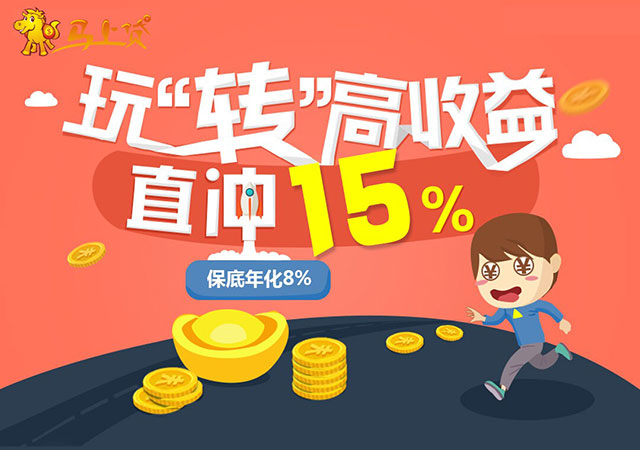
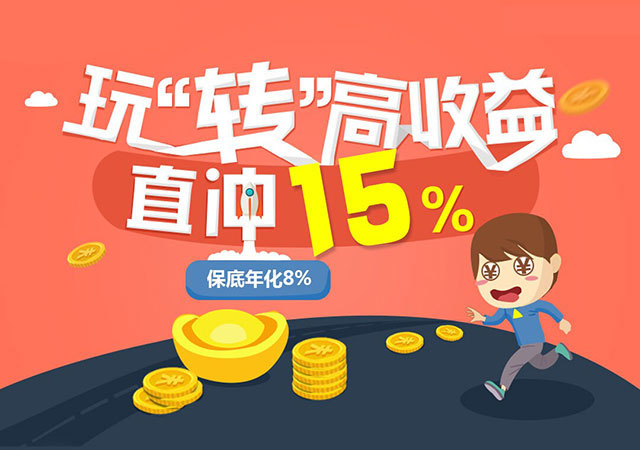
qr1 & qr2 page rebuilt.

Changed region(s): [[0.0, 0.0, 0.25, 0.1244]]

diff --git a/qr1.html b/qr1.html
@@ -6,36 +6,38 @@
     <meta content="yes" name="apple-touch-fullscreen" />
     <meta name="viewport" content="width=device-width, initial-scale=1, maximum-scale=1, user-scalable=no">
     <meta charset="UTF-8">
-    <title>理财信息确认</title>
-    <!-- <link rel="stylesheet" href="css/pure-min.css"> -->
+    <title>邀请理财</title>
     <link rel="stylesheet" href="css/qr.css">
 </head>
 
 <body>
-    <header class="qr_banner">
+    <header class="qr_banner1" id="qr_banner1">
         <img src="img/qr1_banner.jpg">
+        <img src="img/msd_logo.png" class="qr_logo" alt="">
     </header>
-    <div class="qr1_main">
-        <div class="qr_section fl">
-            <img src="img/qr_mockup.jpg">
+    <div class="qr1_main" id="qr1_main">
+        <div class="qr_section fl" id="qr_section1">
+            <img src="img/qr_mockup.jpg" id="qr_img1"><!-- 二维码 -->
             <p>邀请码: <span>7713</span></p>
         </div>
-        <div class="qr_section fl">
-            <img src="img/qr1_finger.jpg" class="fr">
+        <div class="qr_section fl" id="qr_section2">
+            <img src="img/qr_finger.png" id="qr_img2">
             <p>长按指纹扫描二维码</p>
         </div>
     </div>
-    <footer class="qr1_footer">
+    <footer class="qr1_footer" id="qr1_footer">
         <img src="img/qr1_footer.jpg">
     </footer>
-    <script src="js/zepto.min.js"></script>
     <script>
-        var banner_height = $(".qr_banner").height(),
-            footer_height = $(".qr1_footer").height(),
-            body_height = window.document.body.offsetHeight;
-        $(".qr1_main").css("height", body_height - banner_height - footer_height);
-        $(".qr_section").css("height","100%");
-        $(".qr_section img").css("height","80%");
+    window.onload=function(){
+    var banner_height = document.getElementById("qr_banner1").offsetHeight,
+        footer_height = document.getElementById("qr1_footer").offsetHeight,
+        body_height = window.document.body.offsetHeight;
+    document.getElementById("qr1_main").style.height = (body_height - banner_height - footer_height) + "px";
+    document.getElementById("qr_section1").style.height = "100%";
+    document.getElementById("qr_section2").style.height = "100%";
+    document.getElementById("qr_img1").style.height = "80%";
+    document.getElementById("qr_img2").style.height = "80%";}
     </script>
 </body>
 

diff --git a/qr2.html b/qr2.html
@@ -6,31 +6,34 @@
     <meta content="yes" name="apple-touch-fullscreen" />
     <meta name="viewport" content="width=device-width, initial-scale=1, maximum-scale=1, user-scalable=no">
     <meta charset="UTF-8">
-    <title>理财信息确认</title>
+    <title>邀请借款</title>
     <!-- <link rel="stylesheet" href="css/pure-min.css"> -->
     <link rel="stylesheet" href="css/qr.css">
 </head>
 
 <body class="qr2">
-    <header class="qr_banner">
-        <img src="img/qr2_banner.jpg">
+    <header class="qr_banner2" id="qr_banner2">
+        <img src="img/qr2_banner.png">
+        <img src="img/msd_logo.png" class="qr_logo" alt="">
     </header>
-    <div class="qr2_main">
+    <div class="qr2_main" id="qr2_main">
         <div class="qr_section">
-            <img src="img/qr_mockup.jpg">
+            <img src="img/qr_mockup.jpg"><!-- 二维码 -->
             <p>邀请码: <span>7713</span></p>
         </div>
     </div>
-    <footer class="qr2_footer">
-        <img src="img/qr2_footer.png">
+    <footer class="qr2_footer" id="qr2_footer">
+        <div class="qr_section">
+            <img src="img/qr_finger.png" id="qr2_footer_img">
+            <p>长按指纹扫描二维码直接领钱</p>
+        </div>
     </footer>
-    <script src="js/zepto.min.js"></script>
     <script>
-        var banner_height = $(".qr_banner").height(),
-            main_height = $(".qr2_main").height(),
-            body_height = window.document.body.offsetHeight;
-        $(".qr2_footer").css("height", body_height - banner_height - main_height);
-        $(".qr2_footer img").css("height","100%");
+    /*var banner_height = document.getElementById("qr_banner2").offsetHeight,
+        main_height = document.getElementById("qr2_main").offsetHeight,
+        body_height = window.document.body.offsetHeight;
+    document.getElementById("qr2_footer").style.height = (body_height - banner_height - main_height) + "px";
+    document.getElementById("qr2_footer_img").style.height = "100%";*/
     </script>
 </body>
 

diff --git a/css/qr.css b/css/qr.css
@@ -38,19 +38,37 @@ body {
     margin: 0 auto;
 }
 
-.qr2 {
-    background: url(../img/qr2_bg.jpg) repeat-y top center;
-    background-size: 100% auto;
+.qr_logo {
+    position: absolute;
+    top: .5%;
+    left: 1%;
+    width: 25%;
+    height: auto;
+    display: block
 }
 
-.qr_banner img {
+.qr2 {
+    background: #43b1c8;
+}
+
+.qr_banner1 img {
     max-width: 100%;
     height: auto;
     display: block
 }
 
-.qr2_main {
-    text-align: center;
+.qr_banner2 {
+    height: 55%;
+    padding: 7% 0 3%;
+    -webkit-box-sizing: border-box;
+    box-sizing: border-box;
+}
+
+.qr_banner2 img:first-child {
+    height: 100%;
+    width: auto;
+    margin: 0 auto;
+    display: block
 }
 
 .qr1_main {
@@ -58,13 +76,27 @@ body {
     text-align: center;
 }
 
+.qr2_main {
+    text-align: center;
+}
+
 .qr_section {
     box-sizing: border-box;
     -webkit-box-sizing: border-box;
-    padding: 5%;
+    padding: 2% 5% 8%;
     width: 50%;
     display: inline-block;
     height: 100%;
+}
+
+.qr1_main .qr_section:first-child {
+    padding-left: 7%;
+    padding-right: 3%;
+}
+
+.qr1_main .qr_section:nth-child(2) {
+    padding-right: 7%;
+    padding-left: 3%;
 }
 
 .qr2_main .qr_section img {
@@ -85,7 +117,7 @@ body {
 }
 
 .qr1_footer {
-    height: 35%;
+    height: 32%;
     background: #ff7159;
 }
 
@@ -97,13 +129,16 @@ body {
 }
 
 .qr2_footer {
-    height: 20%;
+    height: 21%;
+    text-align: center;
 }
-
+.qr2_footer .qr_section{
+    width: 70%;
+}
 .qr2_footer img {
     height: 100%;
     width: auto;
-    margin: 0 auto;
+    margin: -6% auto 0;
     display: block
 }
 
